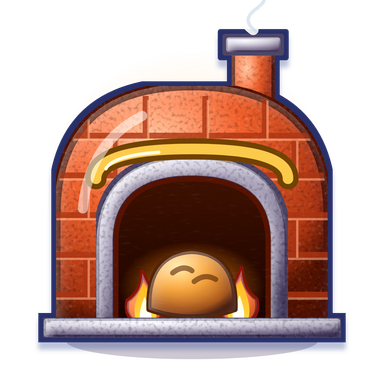
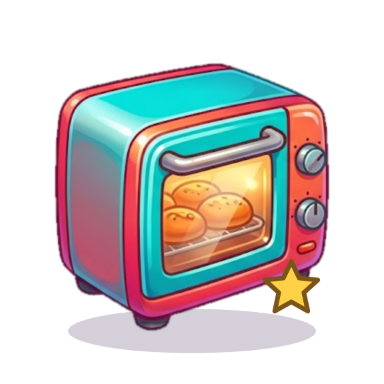
New art for the oven, drink fountain and mixer
The Bread Oven is now a toaster oven, the Drink Fountain an espresso
machine and the Dessert Mixer a new stand mixer. Each comes from one
painted picture (scripts/art/station-src/), and all 10 levels are built
by scripts/art/compose-stations.mjs, which adds the game's own level
decorations (plate, star badge, rays, motes, hearts, crown, wings,
starry sky) around it. art.ts exports stationDressing() for this.

Claude-Session: https://claude.ai/code/session_01Gqahuuwwnr8EJwY6YK9F5z

diff --git a/src/render/art.ts b/src/render/art.ts
@@ -1054,6 +1054,17 @@ export const generatorArt = (g: GenId, lv = 1) =>
   lv > 1 && !overrides.has(`gen-${g}-${lv}`) && overrides.has(`gen-${g}`)
     ? toUrl(`gen-${g}`, (s) => genArt[g](s, 1), 0.9)
     : toUrl(lv > 1 ? `gen-${g}-${lv}` : `gen-${g}`, (s) => genArt[g](s, lv), 0.9);
+/**
+ * The level decorations dress() puts around a station, without the station
+ * itself, as SVG fragments in station coordinates. scripts/art/compose-stations.mjs
+ * uses it to dress painted station art.
+ */
+export function stationDressing(lv: number, glow: string): { defs: string; behind: string; fx: string } {
+  const s = new Svg();
+  dress(s, lv, glow, () => {});
+  return { defs: s.defs.join(''), behind: s.behind.join(''), fx: s.fx.join('') };
+}
+
 export const customerImg = (k: CustomerKind) => toUrl(`cus-${k}`, customerArt[k], 0.94);
 export const pieceArt = (p: Piece) => (p.kind === 'gen' ? generatorArt(p.gen, p.level ?? 1) : itemArt(p.chain, p.level));
 

diff --git a/public/art/README.md b/public/art/README.md
@@ -36,3 +36,16 @@ npm i -D sharp                                        # one-off; Playwright alre
 node scripts/art/render-art.mjs public/art 384        # every sprite
 ONLY=gen-bbq,cus-critic node scripts/art/render-art.mjs   # only keys starting with these
 ```
+
+### Station art from a single picture
+
+The Bread Oven, Drink Fountain and Dessert Mixer use one painted picture each
+(`scripts/art/station-src/<id>.png`, transparent background). All 10 levels are built
+from it by adding the game's own level decorations around it:
+
+```bash
+npm run dev    # in another terminal
+node scripts/art/compose-stations.mjs http://localhost:5173/ oven fountain mixer
+```
+
+To give the BBQ Grill the same treatment, add `scripts/art/station-src/bbq.png` and run it with `bbq`.
